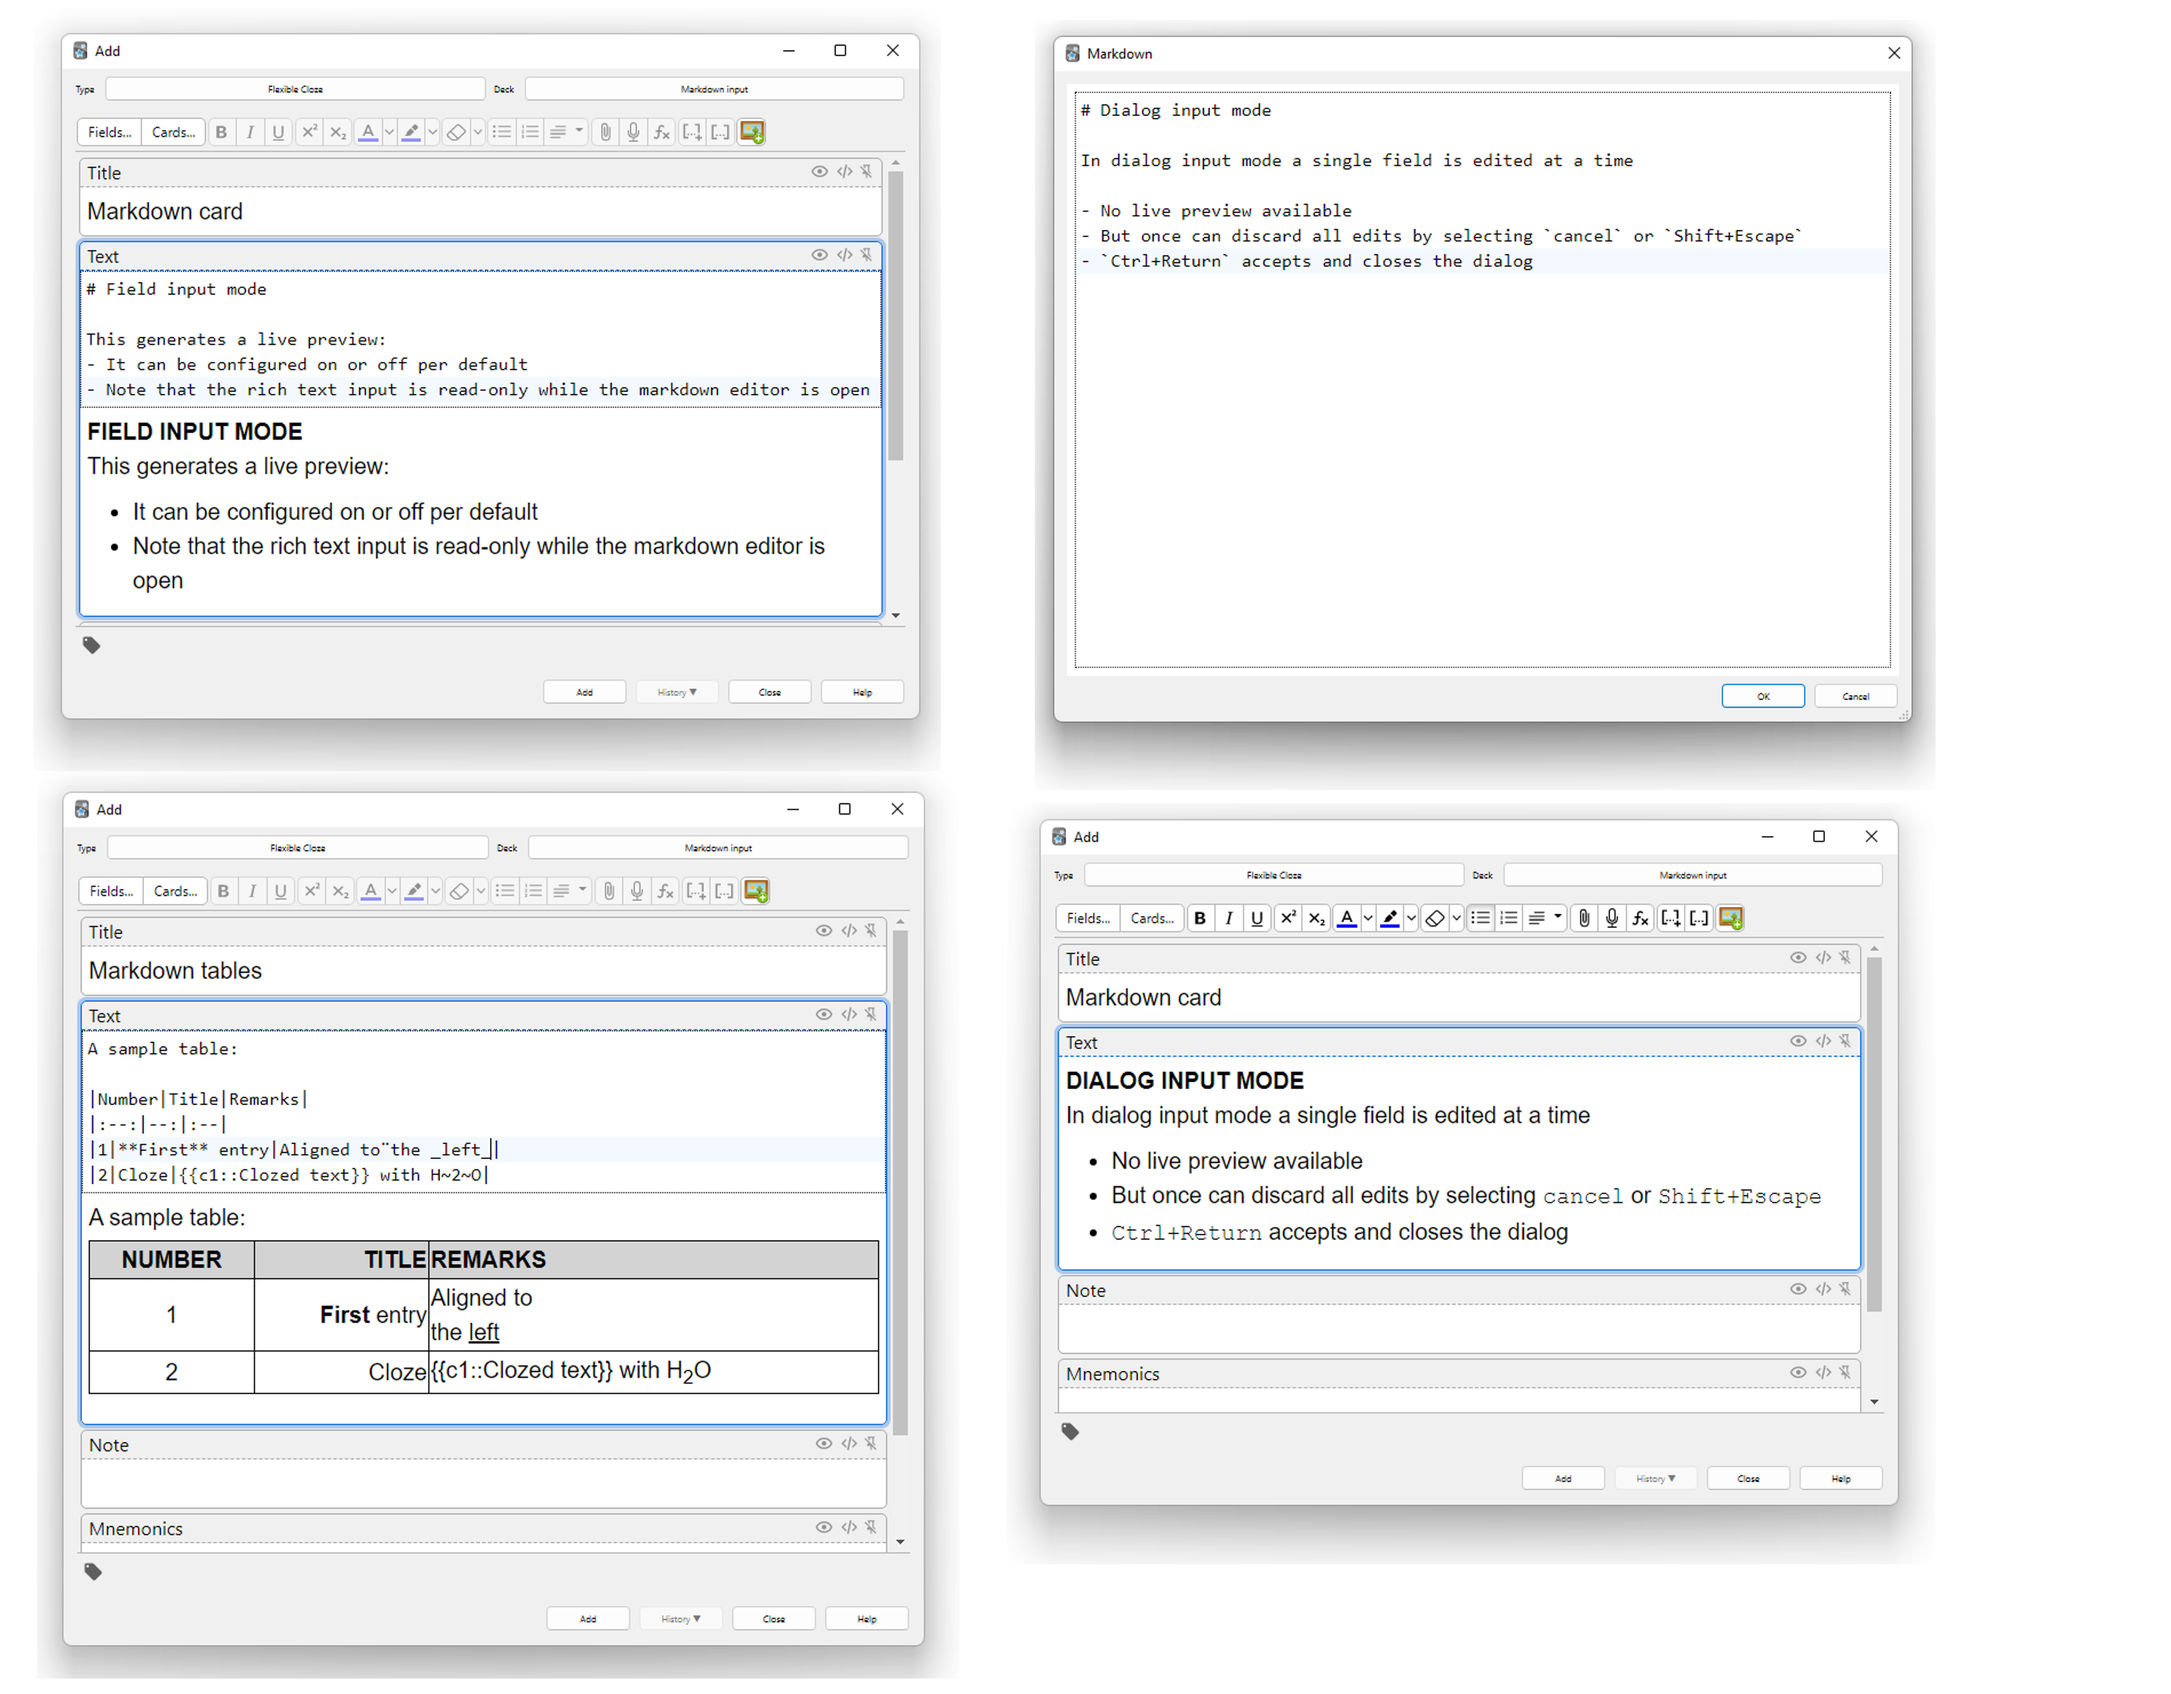
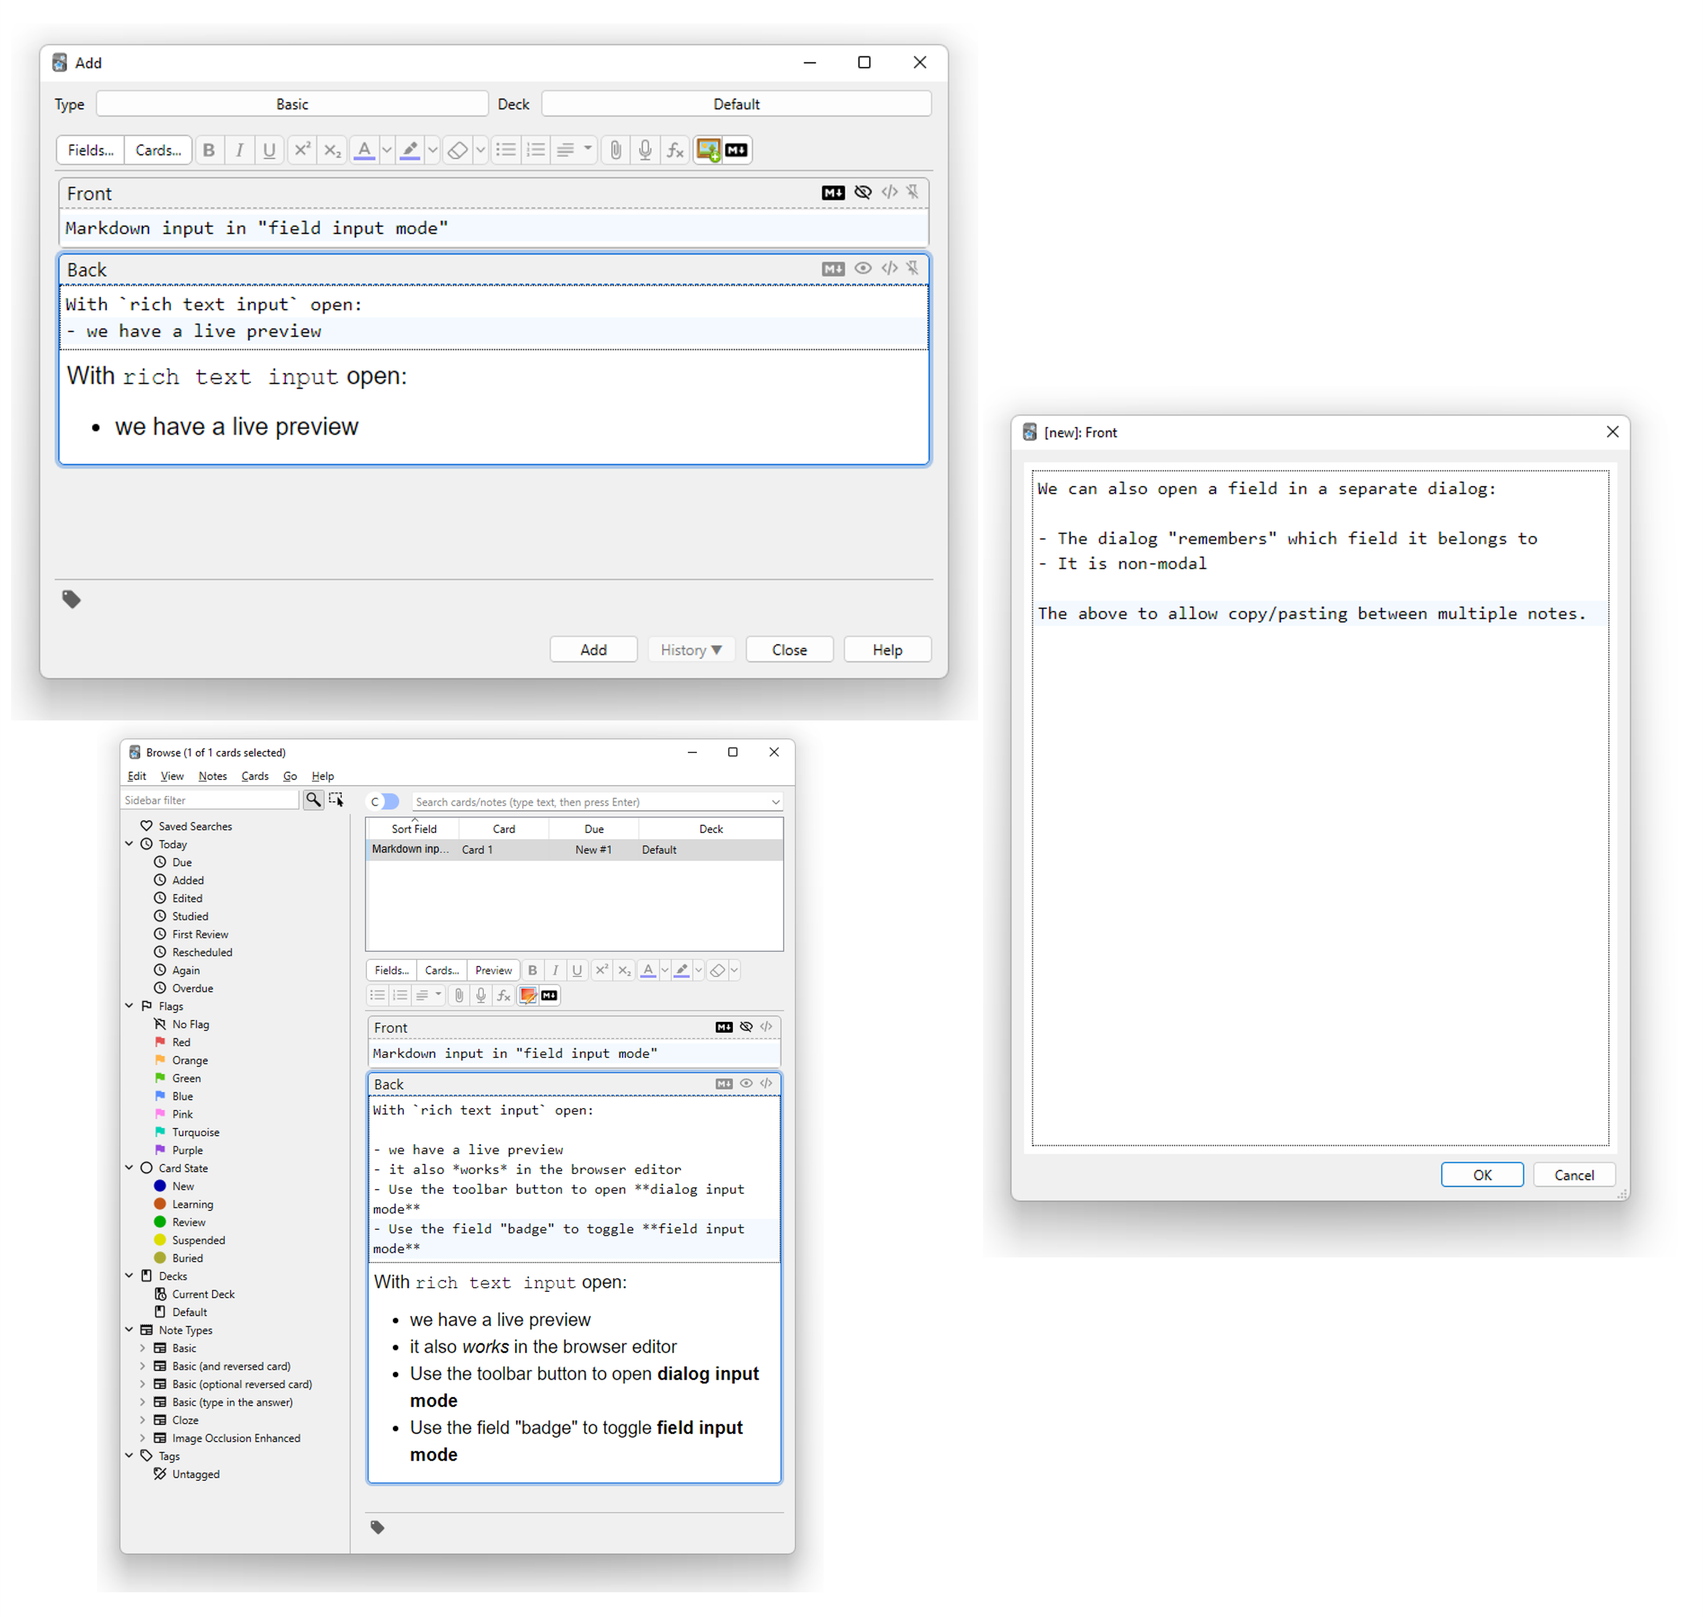
Documentation

Changed region(s): [[0.0, 0.0, 0.9673, 0.9904], [0.5617, 0.0, 0.8737, 0.031], [0.7801, 0.1238, 0.8113, 0.1548]]

diff --git a/README.md b/README.md
@@ -2,7 +2,7 @@
 
 [Anki](https://github.com/ankitects/anki) [addon](https://github.com/TRIAEIOU/Markdown-input) that allows adding and editing notes in extended [CommonMark](https://spec.commonmark.org/) [Markdown](https://daringfireball.net/projects/markdown/), either directly in the editor fields ("field input mode", similar to the core rich and plain text edit interface) or by opening a separate window to edit a specific field ("dialog input mode").
 
-![Markdown input](https://raw.githubusercontent.com/TRIAEIOU/Markdown-input/main/Screenshots/screenshot.png)
+![Markdown input](https://github.com/TRIAEIOU/Markdown-input/blob/ee2bc9b7572c1c4a06dae84a89513862eb7b01d5/Screenshots/add.png)
 
 ## Warning
 
